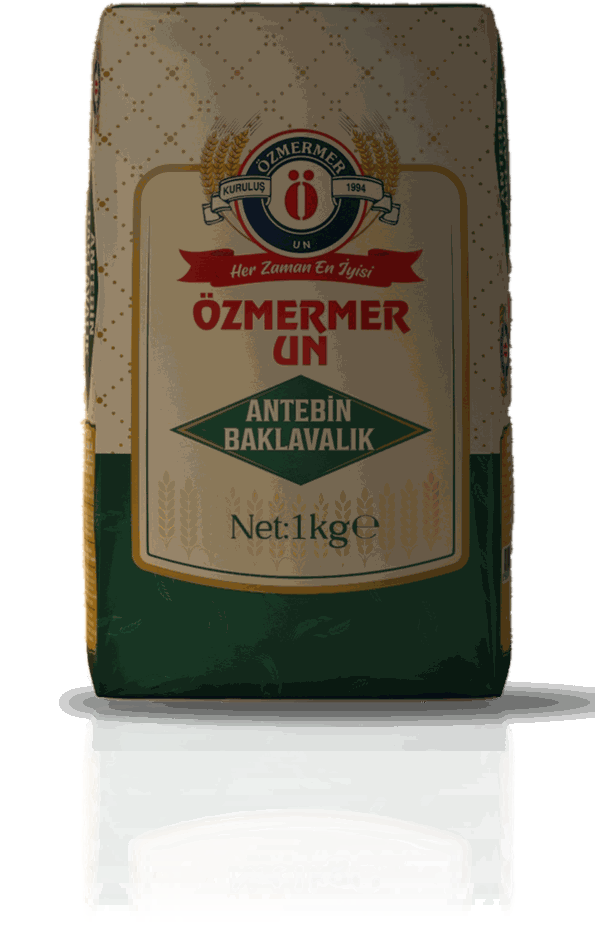
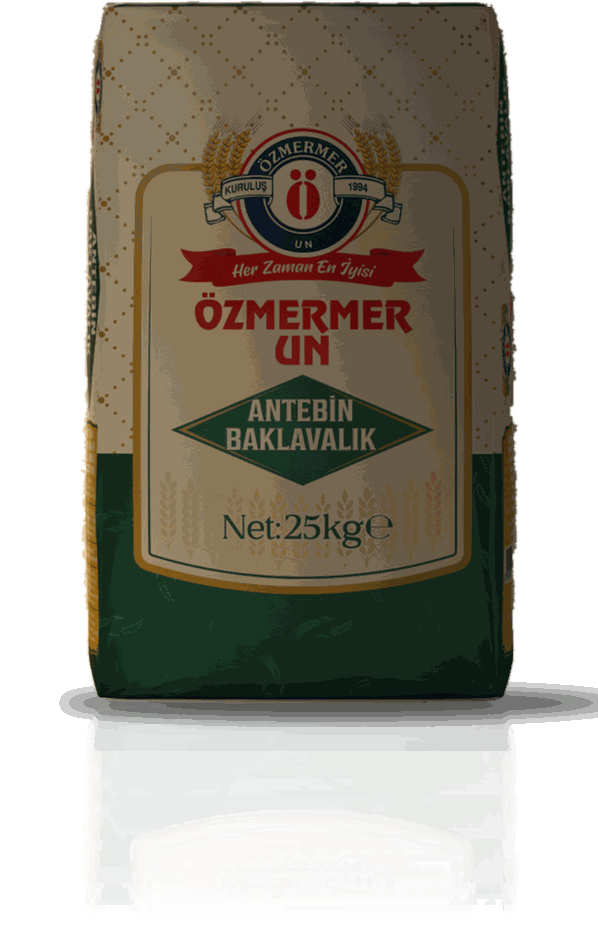
Çuvallardaki ağırlık yazısı her üründe Net:25kg yapıldı
Claude-Session: https://claude.ai/code/session_01NtwCHt3y4DenLj8o9xoV4d

diff --git a/index.html b/index.html
@@ -79,7 +79,7 @@
           <div class="chef-world">
             <img class="chef-bg" src="assets/img/urunler/sef-sahne.jpg" width="1680" height="944" alt="Karanlık bir mutfakta şef, mermer tezgahtaki pizza hamurunun üzerine un serpiyor">
             <canvas class="chef-flour" width="1680" height="944" aria-hidden="true"></canvas>
-            <img class="chef-pack" src="assets/img/urunler/ventus-1kg-sahne.png" width="594" height="929" alt="Tezgahta duran Özmermer Ventus Pizzalık Un paketi">
+            <img class="chef-pack" src="assets/img/urunler/ventus-1kg-sahne.png" width="593" height="928" alt="Tezgahta duran Özmermer Ventus Pizzalık Un paketi">
           </div>
           <div class="art-grain" aria-hidden="true"></div>
           <div class="chef-shade" aria-hidden="true"></div>
@@ -121,7 +121,7 @@
           <article class="ppanel" role="tabpanel" id="panel-antebin" aria-labelledby="tab-antebin" tabindex="0">
             <div class="ppanel-media">
               <img class="ppanel-photo" src="assets/img/urunler/sahne-antebin.jpg" width="1680" height="944" loading="lazy" alt="Antebin Baklavalık Un ile yapılmış ürün">
-              <img class="ppanel-bag" src="assets/img/urunler/antebin-1kg-sahne.png" width="595" height="929" loading="lazy" alt="Antebin Baklavalık Un 1 kg paketi">
+              <img class="ppanel-bag" src="assets/img/urunler/antebin-1kg-sahne.png" width="598" height="929" loading="lazy" alt="Antebin Baklavalık Un 25 kg çuvalı">
             </div>
             <div class="ppanel-body">
               <p class="ppanel-series">Tatlı Hayat Serisi</p>
@@ -139,7 +139,7 @@
           </article><article class="ppanel" role="tabpanel" id="panel-albina" aria-labelledby="tab-albina" tabindex="0">
             <div class="ppanel-media">
               <img class="ppanel-photo" src="assets/img/urunler/sahne-albina.jpg" width="1680" height="944" loading="lazy" alt="Albina Pastalık-Böreklik Un ile yapılmış ürün">
-              <img class="ppanel-bag" src="assets/img/urunler/albina-1kg-sahne.png" width="593" height="929" loading="lazy" alt="Albina Pastalık-Böreklik Un 1 kg paketi">
+              <img class="ppanel-bag" src="assets/img/urunler/albina-1kg-sahne.png" width="589" height="929" loading="lazy" alt="Albina Pastalık-Böreklik Un 25 kg çuvalı">
             </div>
             <div class="ppanel-body">
               <p class="ppanel-series">Artizan Patiseri Serisi</p>
@@ -157,7 +157,7 @@
           </article><article class="ppanel" role="tabpanel" id="panel-ventus" aria-labelledby="tab-ventus" tabindex="0">
             <div class="ppanel-media">
               <img class="ppanel-photo" src="assets/img/urunler/sef-sahne.jpg" width="1680" height="944" loading="lazy" alt="Ventus Pizzalık Un ile yapılmış ürün">
-              <img class="ppanel-bag" src="assets/img/urunler/ventus-1kg-sahne.png" width="594" height="929" loading="lazy" alt="Ventus Pizzalık Un 1 kg paketi">
+              <img class="ppanel-bag" src="assets/img/urunler/ventus-1kg-sahne.png" width="593" height="928" loading="lazy" alt="Ventus Pizzalık Un 25 kg çuvalı">
             </div>
             <div class="ppanel-body">
               <p class="ppanel-series">Gastro Özmermer Serisi</p>
@@ -175,7 +175,7 @@
           </article><article class="ppanel" role="tabpanel" id="panel-dededen" aria-labelledby="tab-dededen" tabindex="0">
             <div class="ppanel-media">
               <img class="ppanel-photo" src="assets/img/urunler/sahne-dededen.jpg" width="1680" height="944" loading="lazy" alt="Özmermer Dededen Pidelik Un ile yapılmış ürün">
-              <img class="ppanel-bag" src="assets/img/urunler/dededen-1kg-sahne.png" width="599" height="929" loading="lazy" alt="Özmermer Dededen Pidelik Un 1 kg paketi">
+              <img class="ppanel-bag" src="assets/img/urunler/dededen-1kg-sahne.png" width="599" height="929" loading="lazy" alt="Özmermer Dededen Pidelik Un 25 kg çuvalı">
             </div>
             <div class="ppanel-body">
               <p class="ppanel-series">Dededen Toruna Serisi</p>
@@ -193,7 +193,7 @@
           </article><article class="ppanel" role="tabpanel" id="panel-pideci" aria-labelledby="tab-pideci" tabindex="0">
             <div class="ppanel-media">
               <img class="ppanel-photo" src="assets/img/urunler/sahne-pideci.jpg" width="1680" height="944" loading="lazy" alt="Özmermer Pideci Un ile yapılmış ürün">
-              <img class="ppanel-bag" src="assets/img/urunler/pideci-1kg-sahne.png" width="602" height="929" loading="lazy" alt="Özmermer Pideci Un 1 kg paketi">
+              <img class="ppanel-bag" src="assets/img/urunler/pideci-1kg-sahne.png" width="602" height="929" loading="lazy" alt="Özmermer Pideci Un 25 kg çuvalı">
             </div>
             <div class="ppanel-body">
               <p class="ppanel-series">Dededen Toruna Serisi</p>
@@ -211,7 +211,7 @@
           </article><article class="ppanel" role="tabpanel" id="panel-luks-francalik" aria-labelledby="tab-luks-francalik" tabindex="0">
             <div class="ppanel-media">
               <img class="ppanel-photo" src="assets/img/urunler/sahne-luks-francalik.jpg" width="1680" height="944" loading="lazy" alt="Lüks Francalık Un ile yapılmış ürün">
-              <img class="ppanel-bag" src="assets/img/urunler/luks-francalik-1kg-sahne.png" width="601" height="929" loading="lazy" alt="Lüks Francalık Un 1 kg paketi">
+              <img class="ppanel-bag" src="assets/img/urunler/luks-francalik-1kg-sahne.png" width="601" height="929" loading="lazy" alt="Lüks Francalık Un 25 kg çuvalı">
             </div>
             <div class="ppanel-body">
               <p class="ppanel-series">Zanaat Ehli Serisi</p>
@@ -229,7 +229,7 @@
           </article><article class="ppanel" role="tabpanel" id="panel-tam-bugday" aria-labelledby="tab-tam-bugday" tabindex="0">
             <div class="ppanel-media">
               <img class="ppanel-photo" src="assets/img/urunler/sahne-tam-bugday.jpg" width="1680" height="944" loading="lazy" alt="Tam Buğday Unu ile yapılmış ürün">
-              <img class="ppanel-bag" src="assets/img/urunler/tam-bugday-1kg-sahne.png" width="576" height="929" loading="lazy" alt="Tam Buğday Unu 1 kg paketi">
+              <img class="ppanel-bag" src="assets/img/urunler/tam-bugday-1kg-sahne.png" width="576" height="929" loading="lazy" alt="Tam Buğday Unu 25 kg çuvalı">
             </div>
             <div class="ppanel-body">
               <p class="ppanel-series">Gastro Özmermer Serisi</p>

diff --git a/assets/js/main.js b/assets/js/main.js
@@ -46,7 +46,7 @@ tabs.forEach((t, i) => {
 if (tabs.length) selectTab(0, false);
 
 // Ürün sahneleri: geniş kadrajda usta tezgaha un serper; kaydırdıkça kamera
-// tezgah boyunca 1 kg pakete yaklaşır, arka plan flulaşır.
+// tezgah boyunca pakete yaklaşır, arka plan flulaşır.
 // Ventus ana sayfada; diğer unlar ürün vitrinindeki "Sahneyi izle" ile tam ekran açılır.
 const IMG = 'assets/img/urunler/';
 const img = (f) => (window.IMG_DATA && window.IMG_DATA[f]) || IMG + f; // önizleme için gömülü görseller
@@ -54,7 +54,7 @@ const WA = 'https://wa.me/905302220090?text=';
 // pack: [dosya genişliği, sol boşluk, paket genişliği]; paketin kendi yüksekliği her dosyada 704 px
 const SCENES = {
   ventus: {
-    name: 'Ventus Pizzalık Un', bg: 'sef-sahne.jpg', pack: 'ventus', packDim: [594, 78, 438],
+    name: 'Ventus Pizzalık Un', bg: 'sef-sahne.jpg', pack: 'ventus', packDim: [593, 78, 436],
     base: { x: 1300, y: 752, h: 310 }, pinch: [[556, 312], [572, 318], [586, 322], [544, 306]],
     floor: 690, lightX: 420, startX: 560,
     caps: [
@@ -64,7 +64,7 @@ const SCENES = {
     ]
   },
   antebin: {
-    name: 'Antebin Baklavalık Un', bg: 'sahne-antebin.jpg', pack: 'antebin', packDim: [595, 79, 437],
+    name: 'Antebin Baklavalık Un', bg: 'sahne-antebin.jpg', pack: 'antebin', packDim: [598, 79, 440],
     base: { x: 1330, y: 765, h: 290 }, pinch: [[350, 380], [365, 388], [378, 394]],
     floor: 600, lightX: 380, startX: 420, rate: 18,
     caps: [
@@ -74,7 +74,7 @@ const SCENES = {
     ]
   },
   albina: {
-    name: 'Albina Pastalık-Böreklik Un', bg: 'sahne-albina.jpg', pack: 'albina', packDim: [593, 78, 436],
+    name: 'Albina Pastalık-Böreklik Un', bg: 'sahne-albina.jpg', pack: 'albina', packDim: [589, 78, 433],
     base: { x: 1300, y: 800, h: 290 }, pinch: [[505, 268], [530, 274], [555, 276], [580, 274], [605, 268]],
     floor: 610, lightX: 620, startX: 520, rate: 30,
     caps: [
@@ -84,7 +84,7 @@ const SCENES = {
     ]
   },
   dededen: {
-    name: 'Özmermer Dededen Pidelik Un', bg: 'sahne-dededen.jpg', pack: 'dededen', packDim: [599, 79, 441],
+    name: 'Özmermer Dededen Pidelik Un', bg: 'sahne-dededen.jpg', pack: 'dededen', packDim: [599, 79, 440],
     base: { x: 1330, y: 800, h: 300 }, pinch: [[520, 470], [570, 485], [610, 500], [640, 515]],
     floor: 640, lightX: 620, startX: 520, rate: 12,
     caps: [
@@ -94,7 +94,7 @@ const SCENES = {
     ]
   },
   pideci: {
-    name: 'Özmermer Pideci Un', bg: 'sahne-pideci.jpg', pack: 'pideci', packDim: [602, 80, 443],
+    name: 'Özmermer Pideci Un', bg: 'sahne-pideci.jpg', pack: 'pideci', packDim: [602, 79, 443],
     base: { x: 1310, y: 770, h: 290 }, pinch: [[620, 420], [650, 428], [680, 436]],
     floor: 600, lightX: 700, startX: 560, rate: 9,
     caps: [

diff --git a/README.md b/README.md
@@ -27,5 +27,5 @@ Her un için kaydırmaya bağlı bir sahne var: usta tezgaha un serper, kamera
 ## Notlar
 
 - Ürün bilgileri ve ürün görselleri Özmermer Un Sanayi ve Ticaret A.Ş.'ye aittir.
-- Albina dışındaki 1 kg paketler örnek tasarımdır (25/50 kg çuval tasarımından türetildi).
+- Dededen, Pideci ve Lüks Francalık çuvallarındaki "25 kg" yazısı 50 kg çuval tasarımından düzenlendi.
 - Sahne arka plan görselleri yapay zekâ (Canva) ile üretilmiştir.
